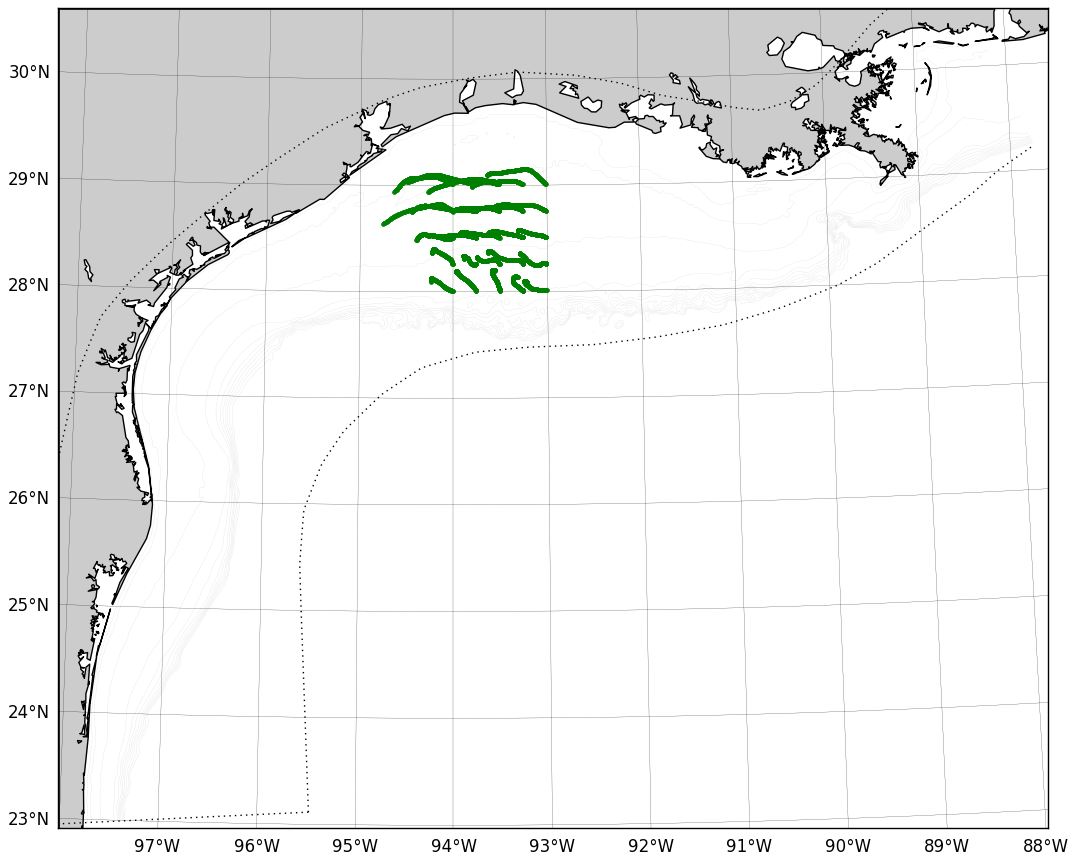
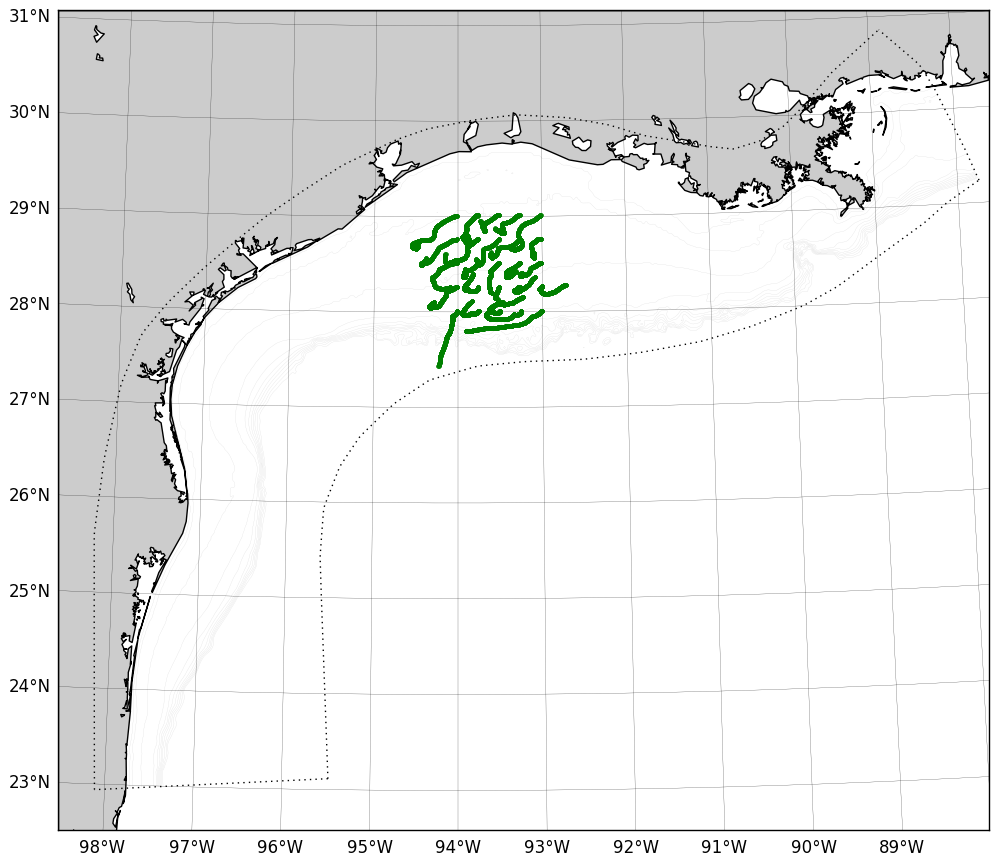
forgot to do a branch for this. I sorted out some gridding questions, particularly fixed the triangulation object made in readgrid.py to be on a psi grid instead of a rho grid, so that, for example, a drifter in the middle of a cell has the grid-relative position of [something].5, [something].5. I h

diff --git a/run.py b/run.py
@@ -127,9 +127,9 @@ def init_galveston():
 def init_test1():
 	'''
 	A drifter test using TXLA model output. 
-	This simulation is 2D (set twodim flag) with no turbulence (no turb flags).
-	Drifters are started at 10 meters below the sea level and run forward
-	for two days from 11/30/09. Compare results with figure in examples/test1.png.
+	The comparison case for this simulation is 2D with no turbulence/diffusion.
+	Drifters are started at the surface and run forward
+	for five days from 11/25/09. Compare results with figure in examples/test1.png.
 
 	'''
 
@@ -140,10 +140,10 @@ def init_test1():
 
 	# Initialize parameters
 	nsteps = 10
-	ndays = 2
+	ndays = 5
 	ff = 1
 	# Start date
-	date = datetime(2009,11, 20, 0)
+	date = datetime(2009,11, 25, 0)
 	# Time between outputs
 	# Dt = 14400. # in seconds (4 hours), nc.variables['dt'][:] 
 	tseas = 4*3600 # 4 hours between outputs, in seconds, time between model outputs 
@@ -151,8 +151,11 @@ def init_test1():
 	av = 1.e-5 # m^2/s, or try 5e-6
 
 	## Input starting locations as real space lon,lat locations
-	lon0,lat0 = np.meshgrid(np.linspace(-94,-93,5), 
-							np.linspace(28,29,5))
+	# lon0,lat0 = np.meshgrid(-95.498218005315309,23.142258627126882) # [0,0] (SE) corner
+	# lon0,lat0 = np.meshgrid(-97.748582291691989,23.000027311710628) # [-1,0] (SW) corner
+	# lon0,lat0 = np.meshgrid(-87.757124031927574,29.235771320764623) # [0,-1] (NE) corner
+	# lon0,lat0 = np.meshgrid(-88.3634073986196,30.388542615201313) # [-1,-1] (NW) corner
+	lon0,lat0 = np.meshgrid(np.linspace(-94,-93,5),np.linspace(28,29,5)) # grid outside Galveston Bay
 	lon0 = lon0.flatten()
 	lat0 = lat0.flatten()
 
@@ -165,15 +168,23 @@ def init_test1():
 	# z0 = np.ones(xstart0.shape)*-40 #  below the surface
 	# zpar = 'fromMSL' 
 	# pdb.set_trace()
-	return loc,nsteps,ndays,ff,date,tseas,ah,av,lon0,lat0,z0,zpar
+
+	# for 3d flag, do3d=0 makes the run 2d and do3d=1 makes the run 3d
+	do3d = 0
+	# turbulence/diffusion flag. doturb=0 means no turb/diffusion,
+	# doturb=1 means adding parameterized turbulence
+	# doturb=2 means adding diffusion on a circle
+	# doturb=3 means adding diffusion on an ellipse (anisodiffusion)
+	doturb = 0
+
+	return loc,nsteps,ndays,ff,date,tseas,ah,av,lon0,lat0,z0,zpar,do3d,doturb
 
 def init_test2():
 	'''
 	A drifter test using TXLA model output. 
-	This simulation is 3D (comment out twodim flag) with turbulence added in.
-	(uncomment turb flag).
-	Drifters are started at 10 meters below the mean sea level and run forward
-	for two days from 11/30/09. Compare results with figure in examples/test2.png.
+	This simulation is 3D with turbulence (doturb=1) added in.
+	Drifters are started at 10 meters below the mean sea level and run backward
+	for five days from 11/25/09. Compare results with figure in examples/test2.png.
 	'''
 
 	# Location of TXLA model output
@@ -183,10 +194,10 @@ def init_test2():
 
 	# Initialize parameters
 	nsteps = 10
-	ndays = 2
+	ndays = 5
 	ff = 1
 	# Start date
-	date = datetime(2009,11, 20, 0)
+	date = datetime(2009,11, 25, 0)
 	# Time between outputs
 	# Dt = 14400. # in seconds (4 hours), nc.variables['dt'][:] 
 	tseas = 4*3600 # 4 hours between outputs, in seconds, time between model outputs 
@@ -205,10 +216,18 @@ def init_test2():
 	# z0 = 'z' #'salt' #'s' 
 	# zpar = -10 #grid['km']-1 # 30 #grid['km']-1
 	# Do the following two for a 3d simulation
-	z0 = np.ones(lon0.shape)*-1 #  below the surface
+	z0 = np.ones(lon0.shape)*-10 #  below the surface
 	zpar = 'fromMSL' 
 
-	return loc,nsteps,ndays,ff,date,tseas,ah,av,lon0,lat0,z0,zpar
+	# for 3d flag, do3d=0 makes the run 2d and do3d=1 makes the run 3d
+	do3d = 1
+	# turbulence/diffusion flag. doturb=0 means no turb/diffusion,
+	# doturb=1 means adding parameterized turbulence
+	# doturb=2 means adding diffusion on a circle
+	# doturb=3 means adding diffusion on an ellipse (anisodiffusion)
+	doturb = 1
+
+	return loc,nsteps,ndays,ff,date,tseas,ah,av,lon0,lat0,z0,zpar,do3d,doturb
 
 def init_hab1b():
 	'''
@@ -223,7 +242,7 @@ def init_hab1b():
 
 	# Initialize parameters
 	nsteps = 10
-	ndays = 1
+	ndays = 10
 	ff = 1
 	# Start date
 	date = datetime(2009,11, 30, 0)
@@ -248,7 +267,16 @@ def init_hab1b():
 	# z0 = np.ones(xstart0.shape)*-40 #  below the surface
 	# zpar = 'fromMSL' 
 
-	return loc,nsteps,ndays,ff,date,tseas,ah,av,lon0,lat0,z0,zpar
+
+	# for 3d flag, do3d=0 makes the run 2d and do3d=1 makes the run 3d
+	do3d = 0
+	# turbulence/diffusion flag. doturb=0 means no turb/diffusion,
+	# doturb=1 means adding parameterized turbulence
+	# doturb=2 means adding diffusion on a circle
+	# doturb=3 means adding diffusion on an ellipse (anisodiffusion)
+	doturb = 0
+
+	return loc,nsteps,ndays,ff,date,tseas,ah,av,lon0,lat0,z0,zpar,do3d,doturb
 
 def run(loc,nsteps,ndays,ff,date,tseas,ah,av,lon0,lat0,z0,zpar,do3d,doturb):
 	'''
@@ -551,6 +579,7 @@ def run(loc,nsteps,ndays,ff,date,tseas,ah,av,lon0,lat0,z0,zpar,do3d,doturb):
 												+ r*zwtnew[iend[j*nsteps:j*nsteps+nsteps,ind].astype(int), \
 															jend[j*nsteps:j*nsteps+nsteps,ind].astype(int), \
 															kend[j*nsteps:j*nsteps+nsteps,ind].astype(int)].T).T
+			# pdb.set_trace()
 
 		# j = j + 1
 
@@ -566,8 +595,10 @@ def run(loc,nsteps,ndays,ff,date,tseas,ah,av,lon0,lat0,z0,zpar,do3d,doturb):
 
 	# Recreate Cartesian particle locations from their index-relative locations
 	# just by interpolating. These are in tracmass ordering
-	fxr = grid['tri'].nn_interpolator(grid['xr'].flatten())
-	fyr = grid['tri'].nn_interpolator(grid['yr'].flatten())
+	fxr = grid['tri'].nn_interpolator(grid['xpsi'].flatten())
+	fyr = grid['tri'].nn_interpolator(grid['ypsi'].flatten())
+	# fxr = grid['tri'].nn_interpolator(grid['xr'].flatten())
+	# fyr = grid['tri'].nn_interpolator(grid['yr'].flatten())
 	xp = fxr(xg,yg)
 	yp = fyr(xg,yg)
 
@@ -582,9 +613,22 @@ def run(loc,nsteps,ndays,ff,date,tseas,ah,av,lon0,lat0,z0,zpar,do3d,doturb):
 	plot(xp,yp,'g.')
 	# Outline numerical domain
 	plot(grid['xr'][0,:],grid['yr'][0,:],'k:')
-	#ax1.plot(grid['xr'][-1,:],grid['yr'][-1,:],'k:')
+	plot(grid['xr'][-1,:],grid['yr'][-1,:],'k:')
 	plot(grid['xr'][:,0],grid['yr'][:,0],'k:')
 	plot(grid['xr'][:,-1],grid['yr'][:,-1],'k:')
+
+	# # get psi mask from rho mask
+	# # maskp = grid['mask'][1:,1:]*grid['mask'][:-1,1:]* \
+ # #               grid['mask'][1:,:-1]*grid['mask'][:-1,:-1] 
+	# # ind = maskp
+	# # ind[ind==0] = np.nan
+	# # plot(grid['xpsi']*ind,grid['ypsi']*ind,'k', \
+	# # 		(grid['xpsi']*ind).T,(grid['ypsi']*ind).T,'k')
+	# plot(grid['xpsi'],grid['ypsi'],'k', \
+	# 		(grid['xpsi']).T,(grid['ypsi']).T,'k')
+
+	# 16 is (lower) one that is near islands, 41 is higher one
+
 	show()
 	toc = time.time()
 	print "run time:",toc-tic
@@ -600,10 +644,10 @@ def start_run():
 	'''
 
 	# Choose which initialization to use
-	# loc,nsteps,ndays,ff,date,tseas,ah,av,lon0,lat0,z0,zpar = init_test1()
-	# loc,nsteps,ndays,ff,date,tseas,ah,av,lon0,lat0,z0,zpar = init_test2()
-	# loc,nsteps,ndays,ff,date,tseas,ah,av,lon0,lat0,z0,zpar = init_hab1b()
-	loc,nsteps,ndays,ff,date,tseas,ah,av,lon0,lat0,z0,zpar,do3d,doturb = init_galveston()
+	# loc,nsteps,ndays,ff,date,tseas,ah,av,lon0,lat0,z0,zpar,do3d,doturb = init_test1()
+	loc,nsteps,ndays,ff,date,tseas,ah,av,lon0,lat0,z0,zpar,do3d,doturb = init_test2()
+	# loc,nsteps,ndays,ff,date,tseas,ah,av,lon0,lat0,z0,zpar,do3d,doturb = init_hab1b()
+	# loc,nsteps,ndays,ff,date,tseas,ah,av,lon0,lat0,z0,zpar,do3d,doturb = init_galveston()
 
 	# Run tracmass!
 	xp,yp,zp,t = run(loc,nsteps,ndays,ff,date,tseas,ah,av,lon0,lat0,z0,zpar,do3d,doturb)

diff --git a/readgrid.py b/readgrid.py
@@ -57,7 +57,7 @@ def readgrid(loc,nc):
     '''
 
     # Basemap parameters.
-    llcrnrlon=-98; llcrnrlat=22.9; urcrnrlon=-87.5; urcrnrlat=30.5; projection='lcc'
+    llcrnrlon=-98.5; llcrnrlat=22.5; urcrnrlon=-87.5; urcrnrlat=31.0; projection='lcc'
     lat_0=30; lon_0=-94; resolution='i'; area_thresh=0.
     basemap = Basemap(llcrnrlon=llcrnrlon,
                  llcrnrlat=llcrnrlat,
@@ -122,12 +122,17 @@ def readgrid(loc,nc):
     km = sc_r.shape[0]-1 # 30 NOT SURE ON THIS ONE YET
 
     # Index grid, for interpolation between real and grid space
-    # X goes from 0 to imt-1 and Y goes from 0 to jmt-1
-    Y, X = np.meshgrid(np.arange(jmt),np.arange(imt)) # grid in index coordinates, without ghost cells
+    # this is for psi grid, so that middle of grid is min + .5 value
+    # X goes from 0 to imt-2 and Y goes from 0 to jmt-2
+    Y, X = np.meshgrid(np.arange(jmt-1),np.arange(imt-1)) # grid in index coordinates, without ghost cells
+    # # This is for rho
+    # # X goes from 0 to imt-1 and Y goes from 0 to jmt-1
+    # Y, X = np.meshgrid(np.arange(jmt),np.arange(imt)) # grid in index coordinates, without ghost cells
     # Triangulation for grid space to curvilinear space
     tri = delaunay.Triangulation(X.flatten(),Y.flatten())
     # Triangulation for curvilinear space to grid space
-    tric = delaunay.Triangulation(xr.flatten(),yr.flatten())
+    tric = delaunay.Triangulation(xpsi.flatten(),ypsi.flatten())
+    # tric = delaunay.Triangulation(xr.flatten(),yr.flatten())
 
     # tracmass ordering.
     # Not sure how to convert this to pm, pn with appropriate shift
@@ -154,16 +159,17 @@ def readgrid(loc,nc):
 
     # Adjust masking according to setupgrid.f95 for rutgersNWA example project from Bror
     # pdb.set_trace()
+    mask2 = mask.copy()
     kmt = np.ones((imt,jmt))*km
-    ind = (mask[1:imt,:]==1)
-    mask[0:imt-1,ind] = 1
-    ind = (mask[:,1:jmt]==1)
-    mask[ind,0:jmt-1] = 1
+    ind = (mask2[1:imt,:]==1)
+    mask2[0:imt-1,ind] = 1
+    ind = (mask2[:,1:jmt]==1)
+    mask2[ind,0:jmt-1] = 1
     # ind = (mask[1:imt-1,:]==1)
     # mask[0:imt-2,ind] = 1
     # ind = (mask[:,1:imt-1]==1)
     # mask[:,0:jmt-2] = 1
-    ind = (mask==0)
+    ind = (mask2==0)
     kmt[ind] = 0
 
     # Use octant to calculate depths/thicknesses for the appropriate vertical grid parameters
